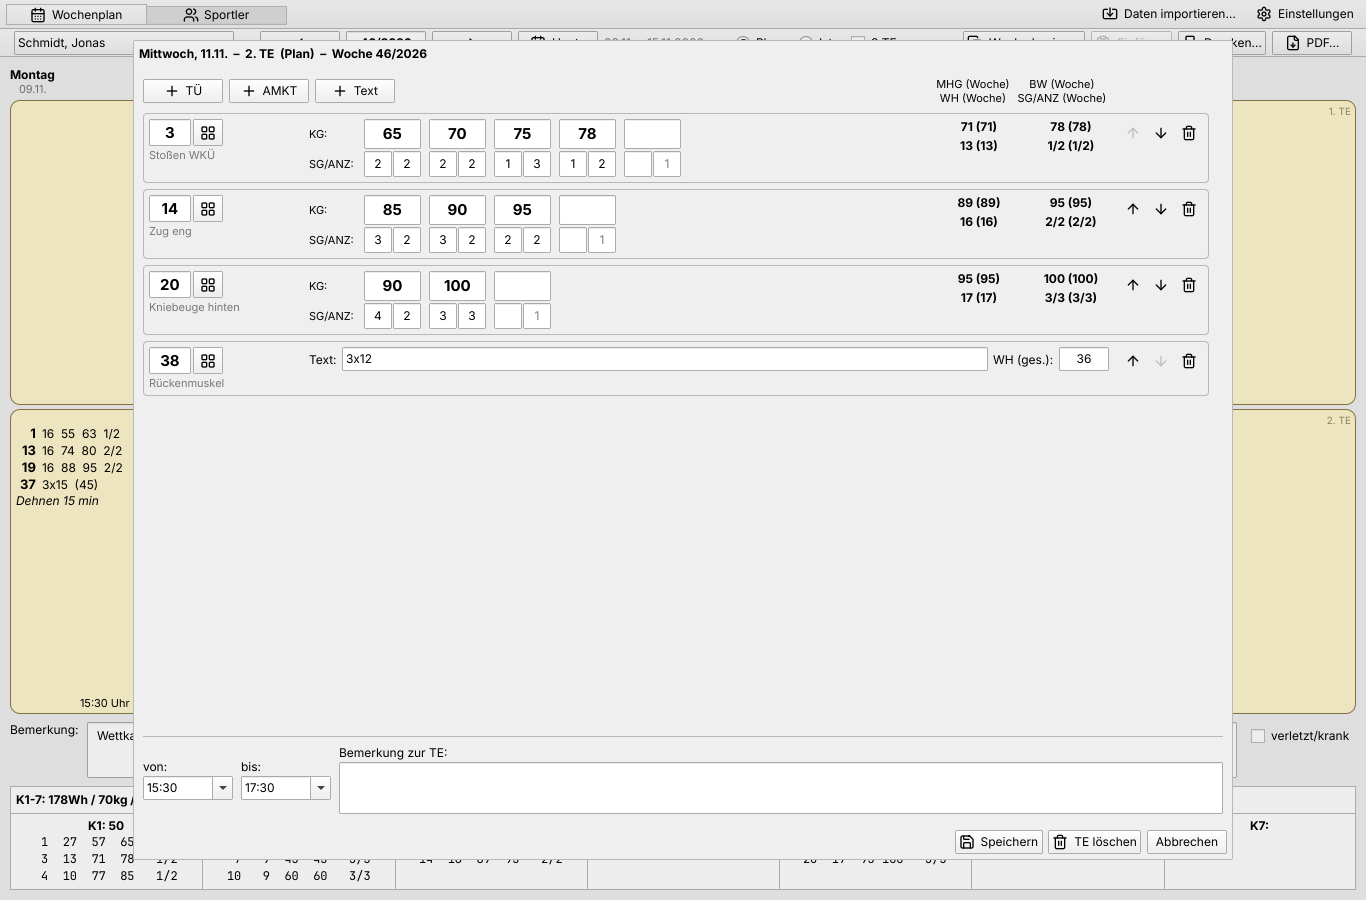
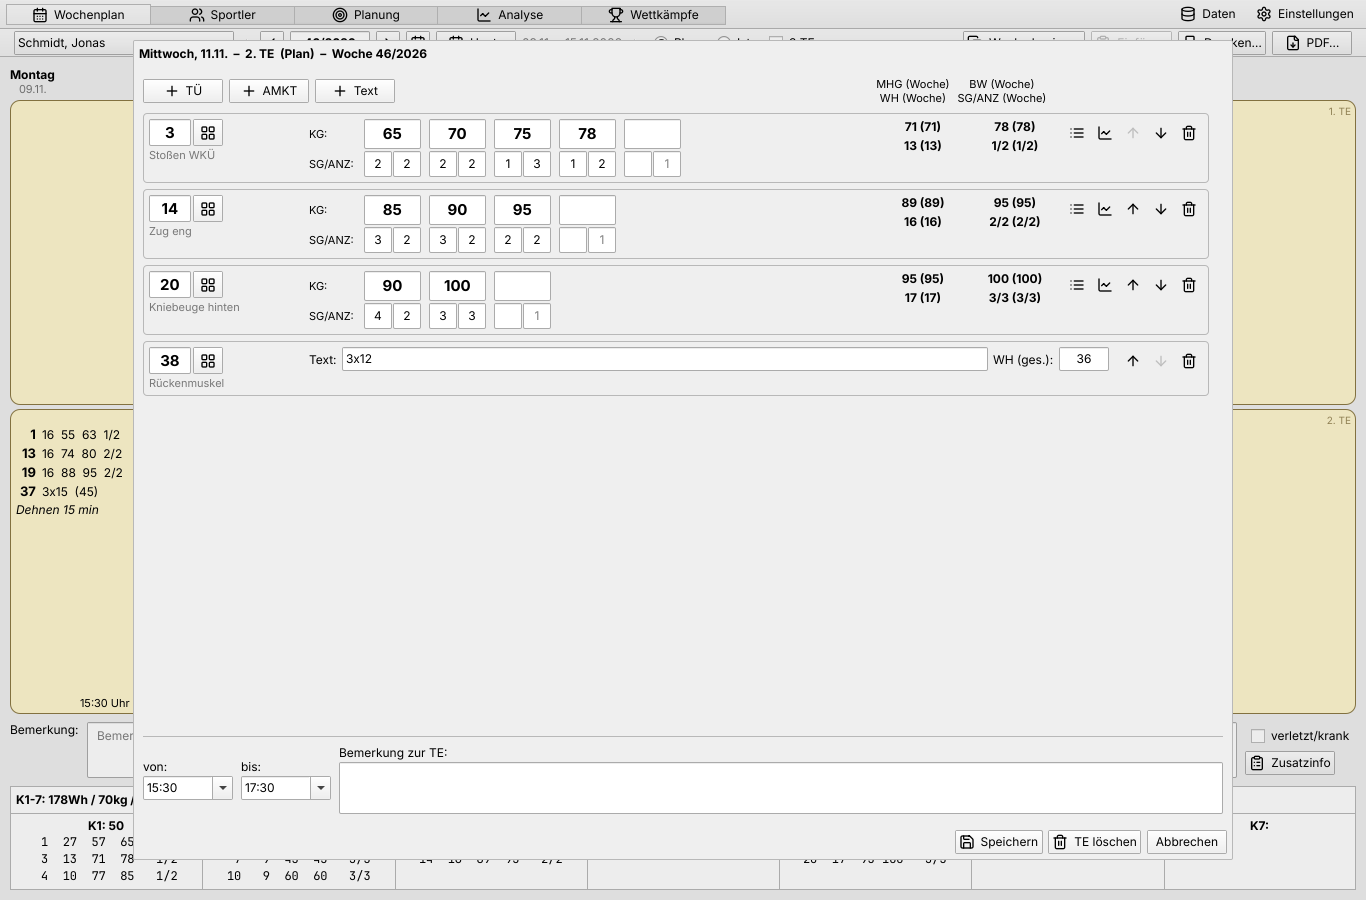
Describe planning, competitions and analyses
The README lists what the program does now and its new modules and
start options. The website gets the new features in its list, sections
with screenshots of the training plan and the charts, and an FAQ entry
on moving data between two computers; the outdated "what is planned"
entry goes. The screenshots show invented demo athletes only.

diff --git a/pages/index.html b/pages/index.html
@@ -40,7 +40,7 @@
 
   <section id="funktionen">
     <h2>Funktionen</h2>
-    <p class="lead">Ein Werkzeug für den Trainingsalltag: planen, nachrechnen, ausdrucken.</p>
+    <p class="lead">Für den Trainingsalltag und die lange Linie: planen, nachrechnen, auswerten, ausdrucken.</p>
     <div class="features">
       <div>
         <svg class="icon" viewBox="0 0 24 24" fill="none" stroke="currentColor" stroke-width="2" stroke-linecap="round" stroke-linejoin="round" aria-hidden="true"><path d="M8 2v4" /> <path d="M16 2v4" /> <rect width="18" height="18" x="3" y="4" rx="2" /> <path d="M3 10h18" /> <path d="M8 14h.01" /> <path d="M12 14h.01" /> <path d="M16 14h.01" /> <path d="M8 18h.01" /> <path d="M12 18h.01" /> <path d="M16 18h.01" /></svg>
@@ -72,6 +72,21 @@
         <h3>Daten bleiben bei Ihnen</h3>
         <p>Keine Anmeldung, keine Cloud. Alles steht in einer Datei auf Ihrem Rechner.</p>
       </div>
+      <div>
+        <svg class="icon" viewBox="0 0 24 24" fill="none" stroke="currentColor" stroke-width="2" stroke-linecap="round" stroke-linejoin="round" aria-hidden="true"><circle cx="12" cy="12" r="10" /> <circle cx="12" cy="12" r="6" /> <circle cx="12" cy="12" r="2" /></svg>
+        <h3>Langfristige Planung</h3>
+        <p>Makrozyklen mit Phasen und Zielleistungen, Rahmenorientierung und individueller Trainingsplan.</p>
+      </div>
+      <div>
+        <svg class="icon" viewBox="0 0 24 24" fill="none" stroke="currentColor" stroke-width="2" stroke-linecap="round" stroke-linejoin="round" aria-hidden="true"><path d="M6 9H4.5a2.5 2.5 0 0 1 0-5H6" /> <path d="M18 9h1.5a2.5 2.5 0 0 0 0-5H18" /> <path d="M4 22h16" /> <path d="M10 14.66V17c0 .55-.47.98-.97 1.21C7.85 18.75 7 20.24 7 22" /> <path d="M14 14.66V17c0 .55.47.98.97 1.21C16.15 18.75 17 20.24 17 22" /> <path d="M18 2H6v7a6 6 0 0 0 12 0V2Z" /></svg>
+        <h3>Wettkämpfe</h3>
+        <p>Ergebnisse mit allen Versuchen, Zweikampf und Entwicklung über die Jahre.</p>
+      </div>
+      <div>
+        <svg class="icon" viewBox="0 0 24 24" fill="none" stroke="currentColor" stroke-width="2" stroke-linecap="round" stroke-linejoin="round" aria-hidden="true"><path d="M3 3v16a2 2 0 0 0 2 2h16" /> <path d="m19 9-5 5-4-4-3 3" /></svg>
+        <h3>Analysen</h3>
+        <p>Abschnitts- und Gruppenanalyse, Trends und Grafiken – auf Papier oder als PDF.</p>
+      </div>
     </div>
 
     <div class="split">
@@ -82,6 +97,27 @@
       </div>
       <img src="session.png" width="1366" height="900" loading="lazy"
            alt="Erfassung einer Trainingseinheit mit drei Übungen und ihren Laststufen">
+    </div>
+
+    <div class="split">
+      <div>
+        <h3>Vom Makrozyklus bis zur Woche</h3>
+        <p>Die Rahmenorientierung legt Umfang und Intensität in Prozent fest, der individuelle
+          Trainingsplan rechnet sie mit den Zielleistungen in Kilogramm um. Im Wochenplan stehen
+          die Vorgaben dann neben den geplanten Laststufen.</p>
+      </div>
+      <img src="planning.png" width="1366" height="900" loading="lazy"
+           alt="Individueller Trainingsplan: Wochen und Übungen mit WH, MHG und BW">
+    </div>
+
+    <div class="split">
+      <div>
+        <h3>Sehen, was das Training bewirkt</h3>
+        <p>Mittleres Hantelgewicht und Bestwert je Übung mit Trend, dazu der Umfang – für einen
+          Sportler, einen Makrozyklus oder im Vergleich.</p>
+      </div>
+      <img src="analysis.png" width="1366" height="900" loading="lazy"
+           alt="Grafik: MHG und BW einer Übung über zwölf Wochen mit Trendlinien und Umfang">
     </div>
 
     <div class="split">
@@ -139,7 +175,7 @@
       <p>Ja. Der Trainingsplaner liest die Datensicherung dieses Programms und verwendet dieselben Übungsnummern:</p>
       <ol>
         <li>Im alten Programm den Datenexport „komplett“ ausführen. Das ergibt die Datei <code>winwotaxp.bak</code>.</li>
-        <li>Im Trainingsplaner oben rechts „Daten importieren…“ wählen und diese Datei öffnen.</li>
+        <li>Im Trainingsplaner oben rechts „Daten“ › „Importieren…“ wählen und diese Datei öffnen.</li>
       </ol>
       <p>Sportler, Trainingseinheiten und Übungen werden übernommen. Ein erneuter Import ergänzt nur, was sich geändert hat.</p>
     </details>
@@ -148,8 +184,12 @@
       <p>Das Programm ist nicht digital signiert, deshalb zeigt Windows SmartScreen eine Warnung. Mit „Weitere Informationen“ und „Trotzdem ausführen“ startet es. Der Quellcode ist öffentlich einsehbar.</p>
     </details>
     <details>
-      <summary>Was ist geplant?</summary>
-      <p>Analysen und Grafiken, Makrozyklen, Wettkämpfe und die individuelle Trainingsplanung. Wünsche und Fehler gern als <a href="https://github.com/iam-peter/trainingsplaner/issues">Issue auf GitHub</a>.</p>
+      <summary>Wie kann ich Daten zwischen zwei Rechnern austauschen?</summary>
+      <p>Über „Daten“ › „Exportieren…“ alle Daten, die Änderungen seit einem Zeitpunkt oder die Wochen eines Sportlers in eine Datei schreiben und auf dem anderen Rechner mit „Importieren…“ einlesen. Neuere Einträge bleiben dabei erhalten.</p>
+    </details>
+    <details>
+      <summary>Mir fehlt etwas oder etwas funktioniert nicht.</summary>
+      <p>Wünsche und Fehler gern als <a href="https://github.com/iam-peter/trainingsplaner/issues">Issue auf GitHub</a>.</p>
     </details>
   </section>
 </main>

diff --git a/README.md b/README.md
@@ -27,25 +27,39 @@ The programs aren't signed: Windows SmartScreen asks once (*Weitere
 Informationen*, *Trotzdem ausführen*), on macOS open the app with a right
 click and *Öffnen* the first time.
 
-## Features (version 0.1)
+## Features
 
 - **Wochenplan**: 7 days × 2 (optionally 3) sessions per athlete, plan or
   actual ("Ist"), week note and injured flag, K1–K7 weekly summary,
-  copy/paste a whole week (also to another athlete).
+  copy/paste a whole week (also to another athlete), calendar to pick a
+  week, extra info per day (body weight, body fat, supplements).
 - **Session editor**: weight exercises (kg, reps per set "SG", sets "ANZ",
   failed attempts "UG" in actual weeks), general exercises as text with total
   reps, free text lines, times and a note. Live MHG/BW/WH/SG-ANZ for the
-  session and the whole week.
+  session and the whole week. History and chart of an exercise.
 - **Erfassung TÜ**: click an exercise line in the week to edit that
   exercise across the whole week: one row per session with its weight
-  steps, move it to another day or session, add or remove it, with the
-  week's totals.
-- **Sportler**: add, edit, delete athletes.
-- **Import** of data exports from WinWoTA XP (see below).
-- **Print / PDF** of the week plan.
+  steps, move it to another day or session, add or remove it, copy weight
+  steps between rows, with the week's totals and the ITP targets.
+- **Sportler**: athletes with age, and Kader, Verein, BSP, Bundeswehr and
+  trainers with their history over time; a filter by Kader and sex.
+- **Wettkämpfe**: results with six attempts (valid/invalid), total, and a
+  chart over the years with best results per half year or year, trends
+  and the reference total of the athlete's class.
+- **Planung**: macrocycles (MAZ) with phases and athletes' targets, the
+  framework plan (RO) in percent, the individual training plan (ITP) per
+  week and exercise or group, planned weight steps, templates (RO to ITP
+  with the athlete's targets), and a chart of ITP against plan or actual.
+- **Analyse**: section analysis (WH, MHG, BW, set size with totals and
+  trends, in kg or percent of the targets, comparisons, all MAZ, reps per
+  weight), group analysis of a MAZ, data check, and charts.
+- **Data**: import and export in the old program's format (everything,
+  changes since a date including deletions, or one athlete's weeks).
+- **Print / PDF** of the week plan with the old print options (notation,
+  figures, notes, empty lines, fonts, margins, landscape, logo), and of
+  all analyses and charts.
 
-Planned: analysis and charts, macrocycles, competitions, individual
-training plans.
+![Planning](docs/screenshots/planning.png)
 
 ## Data from WinWoTA XP
 
@@ -96,7 +110,10 @@ To release: bump `project(... VERSION ...)` in `CMakeLists.txt`, wait for
 |---|---|
 | `--db <file>` | use another database file |
 | `--import <file.bak>` | import an old data export and exit |
-| `--athlete <id> --week 46/2026 --open 1:2 --page sportler` | start at a given place |
+| `--athlete <id> --week 46/2026` | start with this athlete and week |
+| `--page sportler\|planung\|analyse\|wettkaempfe\|einstellungen` | start on that page |
+| `--open 1:2`, `ex:8`, `hist:8`, `chart:8` | open a session (day:number), an exercise's week, history or chart |
+| `--page planung --open maz\|itp\|ro\|laststufen`, `--page analyse --open individual\|group\|check\|chart` | open a tab |
 | `--grab <file.png>` | save a screenshot and exit (for testing) |
 
 ## Code layout
@@ -107,9 +124,14 @@ To release: bump `project(... VERSION ...)` in `CMakeLists.txt`, wait for
 | `src/steps.*` | weight step encoding and the load figures |
 | `src/model.h` | athletes, sessions, entries, weeks, weekly summary |
 | `src/database.*` | SQLite storage |
-| `src/bakimport.*` | importer for the old program's export |
+| `src/tables.*` | table definitions shared by import, export and the deletion log |
+| `src/bakimport.*`, `src/bakexport.*` | import and export in the old program's format |
+| `src/exerciseweek.*` | one exercise across a week (Erfassung TÜ) |
+| `src/competition.*` | competitions, totals, best results, reference totals |
+| `src/planning.*` | MAZ, framework plan, ITP, planned weight steps |
+| `src/analysis.*` | section analysis and load tables |
 | `src/weekreport.*` | printed / PDF week plan |
-| `src/store.*` | API for the QML user interface |
+| `src/store.*`, `src/planstore.*`, `src/analysisapi.*`, `src/itpmodel.*` | APIs and models for the QML user interface |
 | `qml/` | user interface |
 | `tests/` | unit tests (`tst_core`) and UI tests (`tst_qml`) |
 | `logo/` | icon and desktop entry |
